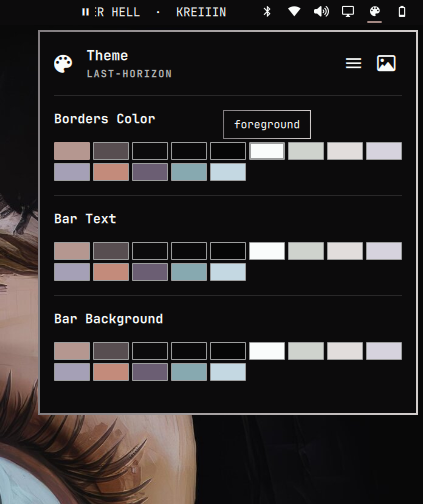
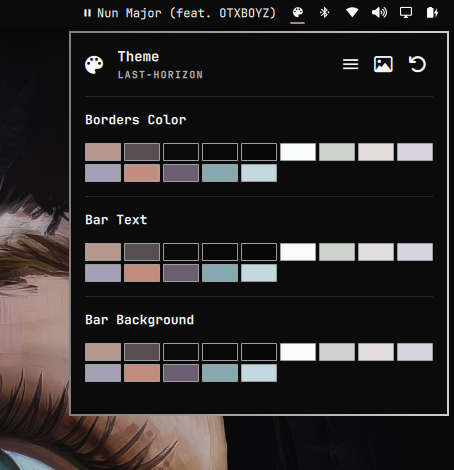
v1.0.1 ressetbotton

diff --git a/Panel.qml b/Panel.qml
@@ -16,9 +16,9 @@ Panel {
   // colors.toml, plus whichever hex is currently written into
   // hyprland.lua as active_border_color (so the matching swatch can
   // show as selected).
-  readonly property string omarchyStateDir: "~/.local/state/omarchy/current"
+  readonly property string omarchyStateDir: Quickshell.env("HOME") + "/.local/state/omarchy/current"
   readonly property string themeDir: omarchyStateDir + "/theme"
-  readonly property string userShellPath: "/home/famas/.config/omarchy/shell.toml"
+  readonly property string userShellPath: Quickshell.env("HOME") + "/.config/omarchy/shell.toml"
   property var themeColors: []
   property string currentColor: ""
   // Whichever theme-palette hex is currently written into [bar] background /
@@ -162,6 +162,37 @@ Panel {
     if (!writeShellProc.running) writeShellProc.running = true
   }
 
+  // Removes the [bar] background/text overrides this plugin wrote into the
+  // user shell.toml so the bar falls back to the active theme's defaults.
+  // Everything else in the file (e.g. [font]) is preserved.
+  readonly property string barResetAwkScript:
+    'BEGIN { insec = 0; buf = ""; nonempty = 0 }\n' +
+    '/^\\[/ {\n' +
+    '  if (insec) { if (nonempty) print buf; insec = 0; buf = ""; nonempty = 0 }\n' +
+    '  if ($0 == "[bar]") { insec = 1; buf = $0 }\n' +
+    '  else print\n' +
+    '  next\n' +
+    '}\n' +
+    'insec && $0 ~ /^[ \\t]*(background|text)[ \\t]*=/ { next }\n' +
+    'insec {\n' +
+    '  if ($0 !~ /^[ \\t]*$/) nonempty = 1\n' +
+    '  buf = buf "\\n" $0\n' +
+    '  next\n' +
+    '}\n' +
+    '{ print }\n' +
+    'END { if (insec && nonempty) print buf }\n'
+
+  function resetBarColors() {
+    root.barBackgroundColor = ""
+    root.barTextColor = ""
+    var path = root.userShellPath
+    writeShellProc.command = ["bash", "-c",
+      "mkdir -p \"$(dirname '" + path + "')\" && [ -f '" + path + "' ] || touch '" + path + "'; "
+      + "awk '" + root.barResetAwkScript + "' '" + path + "' > '" + path + ".tmp' "
+      + "&& mv '" + path + ".tmp' '" + path + "'"]
+    if (!writeShellProc.running) writeShellProc.running = true
+  }
+
   implicitWidth: button.implicitWidth
   implicitHeight: button.implicitHeight
 
@@ -245,6 +276,18 @@ Panel {
       waitForEnd: true
       onStreamFinished: root.refresh()
     }
+  }
+
+  // Detects theme switches no matter who triggered them (this panel's
+  // switcher, the `omarchy theme set` CLI, etc.): omarchy-theme-set rewrites
+  // theme.name on every switch, so bar color overrides get reset to the new
+  // theme's defaults — replacing the old external theme-set hook.
+  FileView {
+    id: themeChangeWatcher
+    path: root.omarchyStateDir + "/theme.name"
+    watchChanges: true
+    printErrors: false
+    onFileChanged: root.resetBarColors()
   }
 
   // --- UI ---
@@ -373,6 +416,19 @@ Panel {
                 horizontalPadding: Style.space(5)
                 verticalPadding: Style.space(2)
                 onClicked: root.summonImagePicker()
+              }
+
+              // reset botton: clears the [bar] background/text overrides this plugin wrote into
+              Button {
+                id: resetBarButton
+                iconText: ""
+                tooltipText: "Reset Bar Colors"
+                foreground: root.bar.foreground
+                fontFamily: root.bar.fontFamily
+                iconSize: Style.font.subtitle * 1.5
+                horizontalPadding: Style.space(5)
+                verticalPadding: Style.space(2)
+                onClicked: root.resetBarColors()
               }
             }
           }

diff --git a/README.md b/README.md
@@ -2,87 +2,87 @@
 
 ![Theme Extend preview](preview.png)
 
-Bar widget para Omarchy que extiende el control de color de tu tema: elige el color de **borde (Hyprland)**, del **texto de la barra** y del **fondo de la barra** directamente desde un selector con todos los colores del tema activo.
+Bar widget for Omarchy that extends your theme color control: choose the **border color (Hyprland)**, **bar text color**, and **bar background color** directly from a color picker with all colors from your active theme.
 
-## Caracteristicas
+## Features
 
-- **Borders Color**: selecciona un color y lo escribe en el archivo `hyprland.lua` del estado del tema (`active_border_color`), aplicandose a los bordes activos de ventanas y grupos.
-- **Bar Text**: cambia el color del texto de la barra (`[bar] text` en `shell.toml`).
-- **Bar Background**: cambia el color del fondo de la barra (`[bar] background` en `shell.toml`).
-- **Hero integrado**: muestra el nombre del tema activo y dos botones de accion con tooltip:
-  - `Switch Theme` — abre el selector de temas de Omarchy.
-  - `Open Image Picker` — abre el selector de imagen de fondo de Omarchy.
-- **Swatches del tema**: todas las paletas se leen de `colors.toml` del tema activo y se muestran en grids, con el color seleccionado actualmente marcado con borde de acento.
-- **Tooltips con el estilo del shell**: cada swatch muestra el nombre del color con el mismo estilo de tooltip de los botones del hero.
-- **Navegacion por teclado** dentro de las grillas de color (las secciones "Borders Color" y "Bar Background").
+- **Borders Color**: select a color and write it to the `hyprland.lua` file in your theme state (`active_border_color`), applying it to active window and group borders.
+- **Bar Text**: change the bar text color (`[bar] text` in `shell.toml`).
+- **Bar Background**: change the bar background color (`[bar] background` in `shell.toml`).
+- **Built-in hero**: displays the active theme name and two action buttons with tooltips:
+  - `Switch Theme` — opens the Omarchy theme selector.
+  - `Open Image Picker` — opens the Omarchy background image selector.
+- **Theme swatches**: all color palettes are read from the active theme's `colors.toml` and displayed in grids, with the currently selected color marked by an accent border.
+- **Shell-styled tooltips**: each swatch shows the color name with the same tooltip style as the hero buttons.
+- **Keyboard navigation** within color grids (the "Borders Color" and "Bar Background" sections).
 
-## Instalacion
+## Installation
 
-1. Copia la carpeta del plugin a tu configuracion de Omarchy:
+1. Copy the plugin folder to your Omarchy configuration:
 
    ```bash
    mkdir -p ~/.config/omarchy/plugins
    cp -r famas.theme-extend ~/.config/omarchy/plugins/
    ```
 
-2. Habilita el plugin:
+2. Enable the plugin:
 
    ```bash
    omarchy plugin enable famas.theme-extend
    ```
 
-3. Colocalo en la barra (widget de barra):
+3. Place it in the bar (bar widget):
 
    ```bash
    omarchy bar put famas.theme-extend
    ```
 
-Tambien puedes validar el plugin con `omarchy plugin validate famas.theme-extend`.
+You can also validate the plugin with `omarchy plugin validate famas.theme-extend`.
 
-## Uso
+## Usage
 
-Haz clic en el icono de la paleta () en la barra para abrir el panel. Se muestran tres secciones:
+Click the palette icon () in the bar to open the panel. Three sections are displayed:
 
-1. **Borders Color** — haz clic en un swatch para aplicar el color a los bordes activos de Hyprland. El swatch que coincide con el color escrito en `hyprland.lua` como `active_border_color` aparece marcado.
-2. **Bar Text** — haz clic en un swatch para cambiar el color del texto de la barra.
-3. **Bar Background** — haz clic en un swatch para cambiar el fondo de la barra.
+1. **Borders Color** — click a swatch to apply the color to Hyprland active borders. The swatch that matches the color written in `hyprland.lua` as `active_border_color` appears highlighted.
+2. **Bar Text** — click a swatch to change the bar text color.
+3. **Bar Background** — click a swatch to change the bar background color.
 
-Pasa el cursor sobre cualquier swatch para ver su tooltip con el nombre del color.
+Hover over any swatch to see its tooltip with the color name.
 
-### Teclado
+### Keyboard
 
-Con el panel abierto, puedes navegar con el teclado en las grillas habilitadas (Borders Color y Bar Background):
+With the panel open, you can navigate with the keyboard in the enabled grids (Borders Color and Bar Background):
 
-- `h` / `l` — moverse a izquierda / derecha.
-- `j` / `k` — moverse hacia abajo / arriba (fila a fila).
-- `Enter` / `Espacio` — aplicar el color enfocado.
-- `Tab` / `Shift+Tab` — moverse entre paneles.
-- `Esc` — cerrar.
+- `h` / `l` — move left / right.
+- `j` / `k` — move down / up (row by row).
+- `Enter` / `Space` — apply the focused color.
+- `Tab` / `Shift+Tab` — move between panels.
+- `Esc` — close.
 
-## Que archivos modifica
+## Modified Files
 
-| Accion | Archivo |
+| Action | File |
 | --- | --- |
 | Borders Color | `~/.local/state/omarchy/current/theme/hyprland.lua` (variable `active_border_color`) |
-| Bar Text / Background | `~/.config/omarchy/shell.toml` (seccion `[bar]`) |
+| Bar Text / Background | `~/.config/omarchy/shell.toml` (section `[bar]`) |
 
-Si `hyprland.lua` no existe, el plugin crea una plantilla completa con `hl.config(...)` y un color de borde inactivo por defecto.
+If `hyprland.lua` does not exist, the plugin creates a complete template with `hl.config(...)` and a default inactive border color.
 
-> Nota: los swatches de las grillas usan los colores que Omarchy escribe como valores hexadecimales. Si `shell.toml` usa un nombre de rol (p. ej. `foreground`) en lugar de un hex, ningun swatch aparece seleccionado hasta que elijas un color con el plugin.
+> Note: grid swatches use the colors that Omarchy writes as hexadecimal values. If `shell.toml` uses a role name (e.g. `foreground`) instead of a hex value, no swatch appears selected until you choose a color with the plugin.
 
-## Requisitos
+## Requirements
 
 - Omarchy (shell `quickshell`).
-- Fuente con iconos Nerd Fonts para los iconos del hero y del boton de la barra.
-- Comandos `omarchy-theme-switcher`, `omarchy-theme-set`, `omarchy-theme-bg-switcher` y `omarchy-theme-bg-set` (incluidos en Omarchy) para los pickers de tema y fondo.
+- Font with Nerd Fonts icons for the hero and bar button icons.
+- Commands `omarchy-theme-switcher`, `omarchy-theme-set`, `omarchy-theme-bg-switcher`, and `omarchy-theme-bg-set` (included in Omarchy) for the theme and background pickers.
 
-## Personalizacion
+## Customization
 
-Las rutas de integracion estan definidas como propiedades al inicio de `Panel.qml` y pueden ajustarse:
+Integration paths are defined as properties at the beginning of `Panel.qml` and can be adjusted:
 
-- `omarchyStateDir` — directorio de estado del tema activo.
-- `userShellPath` — ruta del `shell.toml` del usuario.
+- `omarchyStateDir` — active theme state directory.
+- `userShellPath` — path to the user's `shell.toml`.
 
-## Licencia
+## License
 
-Uso personal. Se distribuye tal cual, sin garantias.
+Personal use. Distributed as-is, without warranties.
